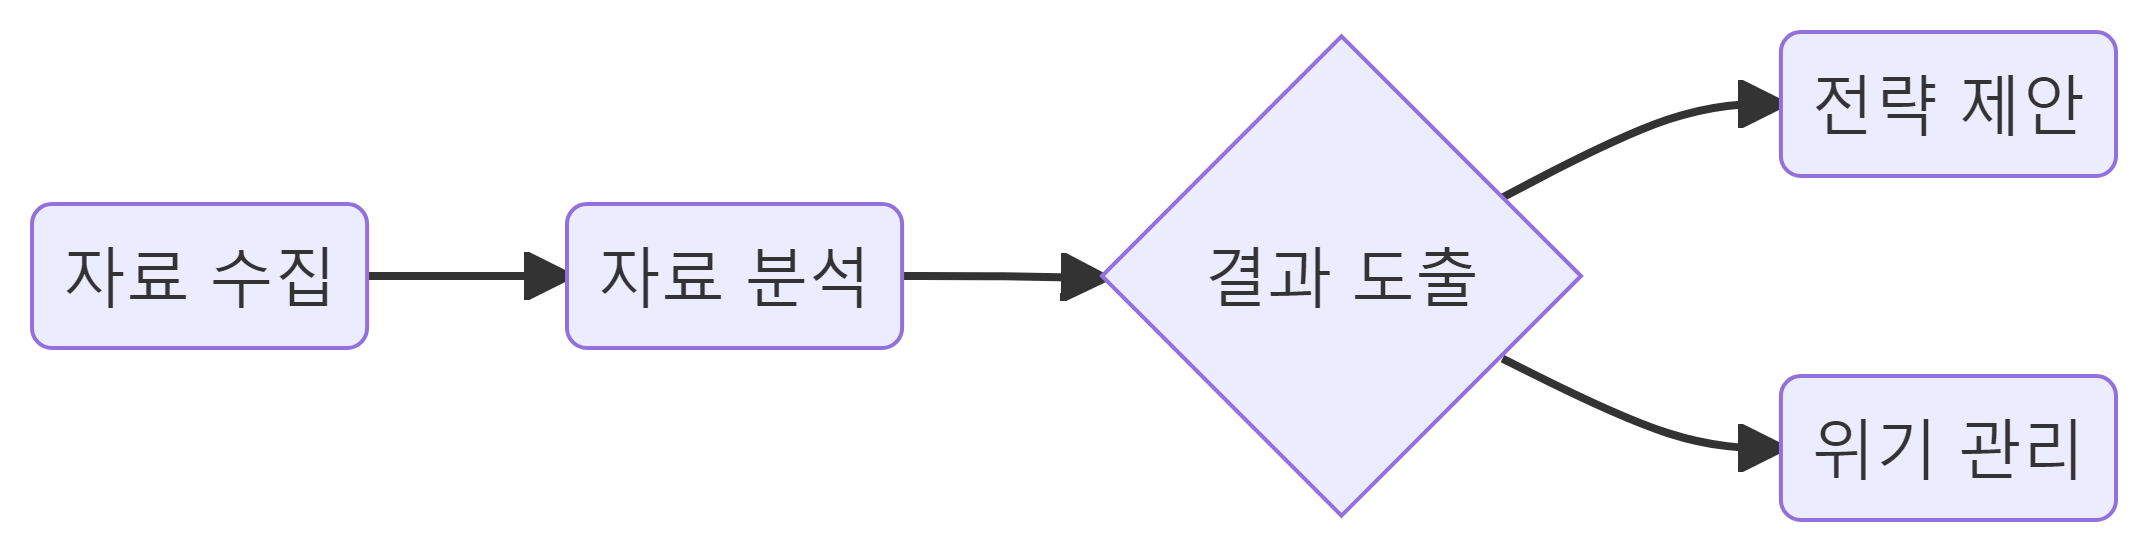
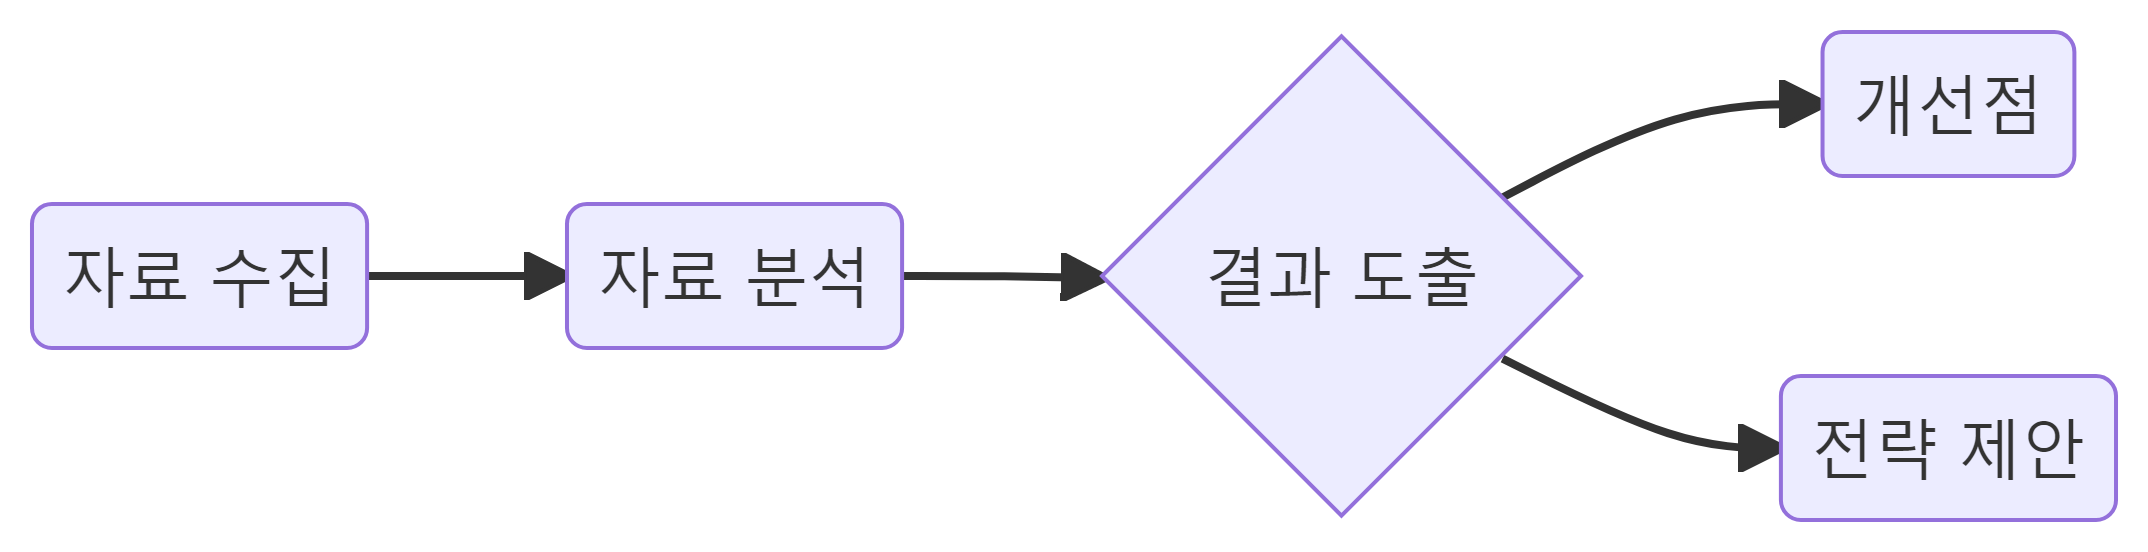
221129 code_fix_5

diff --git a/docs/report.html b/docs/report.html
@@ -391,7 +391,7 @@
 
 <section id="title-slide" class="center">
   <h1 class="title">Report</h1>
-  <p class="subtitle"><strong>MUSINSA 기업 분석</strong></p>
+  <p class="subtitle"><strong>무신사 기업 분석</strong></p>
   <p class="author">언론홍보학과 2021202027 최성진</p>
   <p class="date">2022-12-07</p>
 </section>
@@ -664,7 +664,140 @@
 </div>
 </div>
 <blockquote>
-<p>자사는 온라인 플랫폼 특성으로 실시간 <strong>인기</strong> 상품에 대한 관심, <strong>할인, 이벤트, 혜택</strong>과 같은 프로모션 중심 키워드가 자주 언급된 반면, 경쟁사는 <strong>만족, 편안, 고급</strong>과 같이 오프라인 서비스 중심의 키워드 중심으로 분석됨.</p>
+<p>자사는 온라인 플랫폼 특성으로 실시간 <strong>인기</strong> 상품에 대한 관심과 <strong>할인, 이벤트, 혜택</strong>과 같은 프로모션 중심 키워드가 자주 언급된 반면, 경쟁사는 <strong>만족, 편안, 고급</strong>과 같이 오프라인 서비스 중심의 키워드 중심으로 분석됨.</p>
+</blockquote>
+</section>
+<section id="위기-요인" class="slide level2 smaller">
+<h2>위기 요인</h2>
+<div class="cell">
+<div class="cell-output-display">
+<div>
+<p>
+<svg width="960" height="480" viewbox="0.00 0.00 191.53 175.70" xmlns="http://www.w3.org/2000/svg" xlink="http://www.w3.org/1999/xlink" style=" display: block; margin: auto auto auto auto">
+<g id="graph0" class="graph" transform="scale(1 1) rotate(0) translate(4 171.7)">
+<title>
+G
+</title>
+<polygon fill="white" stroke="transparent" points="-4,4 -4,-171.7 187.53,-171.7 187.53,4 -4,4"></polygon> <!-- 위기요인 --> <g id="node1" class="node">
+<title>
+위기요인
+</title>
+<ellipse fill="none" stroke="black" cx="74.88" cy="-89.71" rx="40.01" ry="18"></ellipse> <text text-anchor="middle" x="74.88" y="-85.51" font-family="Times,serif" font-size="14.00">위기요인</text> </g> <!-- 성차별 --> <g id="node2" class="node">
+<title>
+성차별
+</title>
+<ellipse fill="none" stroke="black" cx="150.76" cy="-101.49" rx="32.53" ry="18"></ellipse> <text text-anchor="middle" x="150.76" y="-97.29" font-family="Times,serif" font-size="14.00">성차별</text> </g> <!-- 위기요인&#45;&#45;성차별 --> <g id="edge1" class="edge">
+<title>
+위기요인–성차별
+</title>
+<path fill="none" stroke="black" d="M112.82,-95.6C114.9,-95.92 116.97,-96.24 119.02,-96.56"></path> </g> <!-- 혐오제스처 --> <g id="node3" class="node">
+<title>
+혐오제스처
+</title>
+<ellipse fill="none" stroke="black" cx="47.51" cy="-18" rx="47" ry="18"></ellipse> <text text-anchor="middle" x="47.51" y="-13.8" font-family="Times,serif" font-size="14.00">혐오제스처</text> </g> <!-- 위기요인&#45;&#45;혐오제스처 --> <g id="edge2" class="edge">
+<title>
+위기요인–혐오제스처
+</title>
+<path fill="none" stroke="black" d="M67.97,-71.62C63.79,-60.66 58.48,-46.75 54.32,-35.84"></path> </g> <!-- 가품 --> <g id="node4" class="node">
+<title>
+가품
+</title>
+<ellipse fill="none" stroke="black" cx="27" cy="-149.7" rx="27" ry="18"></ellipse> <text text-anchor="middle" x="27" y="-145.5" font-family="Times,serif" font-size="14.00">가품</text> </g> <!-- 위기요인&#45;&#45;가품 --> <g id="edge3" class="edge">
+<title>
+위기요인–가품
+</title>
+<path fill="none" stroke="black" d="M61.29,-106.74C54.54,-115.19 46.44,-125.35 39.8,-133.66"></path> </g> </g>
+</svg>
+</p>
+</div>
+</div>
+</div>
+</section>
+<section id="위기-요인-1" class="slide level2 smaller">
+<h2>위기 요인</h2>
+<ul>
+<li>성차별 논란</li>
+</ul>
+<div class="quarto-layout-panel">
+<div class="quarto-layout-row quarto-layout-valign-top">
+<div class="quarto-layout-cell" style="flex-basis: 50.0%;justify-content: center;">
+<div class="quarto-figure quarto-figure-center">
+<figure>
+<p><img data-src="_site/brand_files/figure-html/musinsa_senti-1.png"></p>
+<p></p><figcaption>무신사 감정빈도</figcaption><p></p>
+</figure>
+</div>
+</div>
+<div class="quarto-layout-cell" style="flex-basis: 50.0%;justify-content: center;">
+<div class="quarto-figure quarto-figure-center">
+<figure>
+<p><img data-src="_site/brand_files/figure-html/plat_pone-2.png"></p>
+<p></p><figcaption>패션 브랜드 긍정어 부정어</figcaption><p></p>
+</figure>
+</div>
+</div>
+</div>
+</div>
+<blockquote>
+<p>자사는 온라인 플랫폼 특성으로 실시간 <strong>인기</strong> 상품에 대한 관심과 <strong>할인, 이벤트, 혜택</strong>과 같은 프로모션 중심 키워드가 자주 언급된 반면, 경쟁사는 <strong>만족, 편안, 고급</strong>과 같이 오프라인 서비스 중심의 키워드 중심으로 분석됨.</p>
+</blockquote>
+</section>
+<section id="위기-요인-2" class="slide level2 smaller">
+<h2>위기 요인</h2>
+<ul>
+<li>혐오 제스처 논란</li>
+</ul>
+<div class="quarto-layout-panel">
+<div class="quarto-layout-row quarto-layout-valign-top">
+<div class="quarto-layout-cell" style="flex-basis: 50.0%;justify-content: center;">
+<div class="quarto-figure quarto-figure-center">
+<figure>
+<p><img data-src="_site/brand_files/figure-html/musinsa_senti-1.png"></p>
+<p></p><figcaption>무신사 감정빈도</figcaption><p></p>
+</figure>
+</div>
+</div>
+<div class="quarto-layout-cell" style="flex-basis: 50.0%;justify-content: center;">
+<div class="quarto-figure quarto-figure-center">
+<figure>
+<p><img data-src="_site/brand_files/figure-html/plat_pone-2.png"></p>
+<p></p><figcaption>패션 브랜드 긍정어 부정어</figcaption><p></p>
+</figure>
+</div>
+</div>
+</div>
+</div>
+<blockquote>
+<p>자사는 온라인 플랫폼 특성으로 실시간 <strong>인기</strong> 상품에 대한 관심과 <strong>할인, 이벤트, 혜택</strong>과 같은 프로모션 중심 키워드가 자주 언급된 반면, 경쟁사는 <strong>만족, 편안, 고급</strong>과 같이 오프라인 서비스 중심의 키워드 중심으로 분석됨.</p>
+</blockquote>
+</section>
+<section id="위기-요인-3" class="slide level2 smaller">
+<h2>위기 요인</h2>
+<ul>
+<li>가품 논란</li>
+</ul>
+<div class="quarto-layout-panel">
+<div class="quarto-layout-row quarto-layout-valign-top">
+<div class="quarto-layout-cell" style="flex-basis: 50.0%;justify-content: center;">
+<div class="quarto-figure quarto-figure-center">
+<figure>
+<p><img data-src="_site/brand_files/figure-html/musinsa_senti-1.png"></p>
+<p></p><figcaption>무신사 감정빈도</figcaption><p></p>
+</figure>
+</div>
+</div>
+<div class="quarto-layout-cell" style="flex-basis: 50.0%;justify-content: center;">
+<div class="quarto-figure quarto-figure-center">
+<figure>
+<p><img data-src="_site/brand_files/figure-html/plat_pone-2.png"></p>
+<p></p><figcaption>패션 브랜드 긍정어 부정어</figcaption><p></p>
+</figure>
+</div>
+</div>
+</div>
+</div>
+<blockquote>
+<p>자사는 온라인 플랫폼 특성으로 실시간 <strong>인기</strong> 상품에 대한 관심과 <strong>할인, 이벤트, 혜택</strong>과 같은 프로모션 중심 키워드가 자주 언급된 반면, 경쟁사는 <strong>만족, 편안, 고급</strong>과 같이 오프라인 서비스 중심의 키워드 중심으로 분석됨.</p>
 </blockquote>
 </section>
 <section id="swot-분석" class="slide level2 smaller">

diff --git a/docs/report.md b/docs/report.md
@@ -21,7 +21,7 @@ Report
 
 <div>
 
-<img src="docs/musinsa_logo.jpg" data-fig-align="center" />
+<img src="docs/musinsa_logo.jpg" data-fig-align="center" width="800" />
 
 </div>
 
@@ -34,8 +34,6 @@ Report
 
 ## 자회사
 
-  
-
 |     브랜드      |       분류       |
 |:---------------:|:----------------:|
 | 무신사 스탠다드 |     자체 PB      |
@@ -47,8 +45,6 @@ Report
 |   스타일쉐어    |   패션 공유 앱   |
 
 ## 경쟁사
-
-  
 
 |     브랜드      |       분류       |
 |:---------------:|:----------------:|
@@ -66,13 +62,21 @@ Report
 
   
 
-- 기업 분석을 통해 무신사가 갖는 독보적 BI를 확인하고, 경쟁사와 차별점과
-  패션 업계 트렌드를 중심으로 나아가야 할 방향과 전략을 제시하고자 함.
+- 기업 분석을 통해 무신사가 갖는 **독보적 BI**를 확인하고, 경쟁사와
+  **차별점**과 더불어 패션 업계 **트렌드**를 중심으로 **나아가야 할
+  방향**과 **전략**을 제시하고자 한다.
 
   
 
 <img src="report_files\figure-gfm\mermaid-figure-1.png"
 style="width:8in;height:5in" />
+
+<div>
+
+<img src="docs/report_files/figure-gfm/mermaid-figure-1.png"
+data-fig-align="center" width="800" />
+
+</div>
 
 # 데이터셋 수집 및 정제
 
@@ -132,6 +136,86 @@ musinsa_topic_tk %>%
 
 # 데이터 분석
 
+## 경쟁사 대비 차별점
+
+- 독보적인 온라인 플랫폼
+
+<div>
+
+<table>
+<colgroup>
+<col style="width: 50%" />
+<col style="width: 50%" />
+</colgroup>
+<tbody>
+<tr class="odd">
+<td style="text-align: center;"><div width="50.0%"
+data-layout-align="center">
+<figure>
+<img src="_site/brand_files/figure-html/musinsa_all-1.png"
+data-fig.extended="false" alt="무신사 총빈도" />
+<figcaption aria-hidden="true">무신사 총빈도</figcaption>
+</figure>
+</div></td>
+<td style="text-align: center;"><div width="50.0%"
+data-layout-align="center">
+<figure>
+<img src="_site/brand_files/figure-html/vs-1.png"
+data-fig.extended="false" alt="무신사, 패션 브랜드 상대빈도" />
+<figcaption aria-hidden="true">무신사, 패션 브랜드 상대빈도</figcaption>
+</figure>
+</div></td>
+</tr>
+</tbody>
+</table>
+
+</div>
+
+> 자사는 **패션, 플랫폼, 온라인**등 비대면 온라인 키워드가 많이 노출된
+> 반면, 경쟁사는 **백화점, 고객, 서비스**등 오프라인 키워드가
+> 두드러졌으며, 상대빈도 역시 자사는 **온라인**, 경쟁사는 **오프라인**
+> 중심인 모습을 확인할 수 있었음.
+
+## 경쟁사 대비 차별점
+
+- 온라인을 통한 다양한 프로모션
+
+<div>
+
+<table>
+<colgroup>
+<col style="width: 50%" />
+<col style="width: 50%" />
+</colgroup>
+<tbody>
+<tr class="odd">
+<td style="text-align: center;"><div width="50.0%"
+data-layout-align="center">
+<figure>
+<img src="_site/brand_files/figure-html/musinsa_senti-1.png"
+data-fig.extended="false" alt="무신사 감정빈도" />
+<figcaption aria-hidden="true">무신사 감정빈도</figcaption>
+</figure>
+</div></td>
+<td style="text-align: center;"><div width="50.0%"
+data-layout-align="center">
+<figure>
+<img src="_site/brand_files/figure-html/plat_pone-2.png"
+data-fig.extended="false" alt="패션 브랜드 긍정어 부정어" />
+<figcaption aria-hidden="true">패션 브랜드 긍정어 부정어</figcaption>
+</figure>
+</div></td>
+</tr>
+</tbody>
+</table>
+
+</div>
+
+> 자사는 온라인 플랫폼 특성으로 실시간 **인기** 상품에 대한 관심과
+> **할인, 이벤트, 혜택**과 같은 프로모션 중심 키워드가 자주 언급된 반면,
+> 경쟁사는 **만족, 편안, 고급**과 같이 오프라인 서비스 중심의 키워드
+> 중심으로 분석됨.
+
 ## SWOT 분석
 
 <div>
@@ -175,9 +259,11 @@ data-fig.extended="false" alt="무신사, 패션 브랜드 상대빈도" />
 
 # 결론
 
-## 결론
+## 개선점
 
 - Get in bed
 - Count sheep
+
+## 전략
 
 # 감사합니다.
